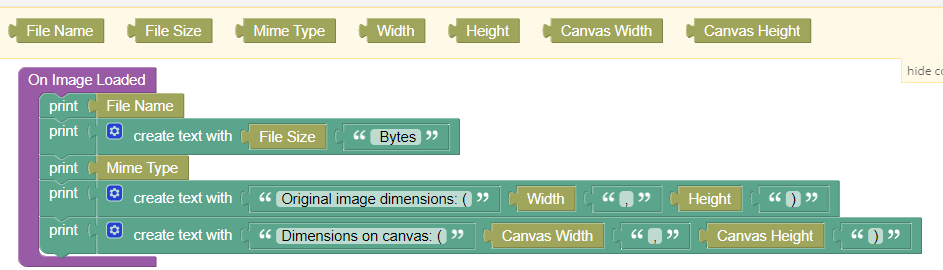
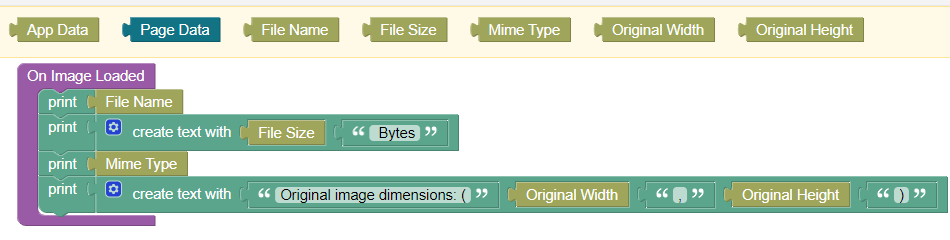
fixes

diff --git a/EndlessImageUploader/README.md b/EndlessImageUploader/README.md
@@ -3,7 +3,7 @@
 This is the documentation for ``EndlessImageUploader`` and ``EndlessImageUploaderPro``.
 
 ## Use Cases
-- Select an image from local file system, camera
+- Select an image from local file system, or mobile device camera
 - Paste an image from clipboard (**Pro-version only**)
 - Rotate the image
 - Zoom in/out
@@ -36,7 +36,9 @@ By default, a resizable crop box is shown after an image has been selected or pa
 ## Properties
 
 ### Display
-(**Pro-version only**) Boolean. If unchecked, no image preview is shown. Therefore, a user cannot change the cropping area. Unchecking this property makes monstly sense only when checking ``No Crop Box`` at the same time.
+(**Pro-version only**) Boolean. If unchecked, no image preview is shown. Therefore, a user cannot change the cropping area. Unchecking this property makes monstly sense only when checking ``No Crop Box`` at the same time. In conjunction with the event handler for ``On Image Loaded``, an image can be selected, scaled and uploaded without preview and user-triggered save action. An event handler implementing this use case is shown here:
+
+![sample](./assets/passThrough.png)
 
 ### No Crop Box
 (**Pro-version only**) Boolean. If checked, no resizable crop area is shown above the image. Still, parts of the image can be cropped, by zooming-in and moving the image along the canvas. The save and crop action will then crop the visible part of the image.
